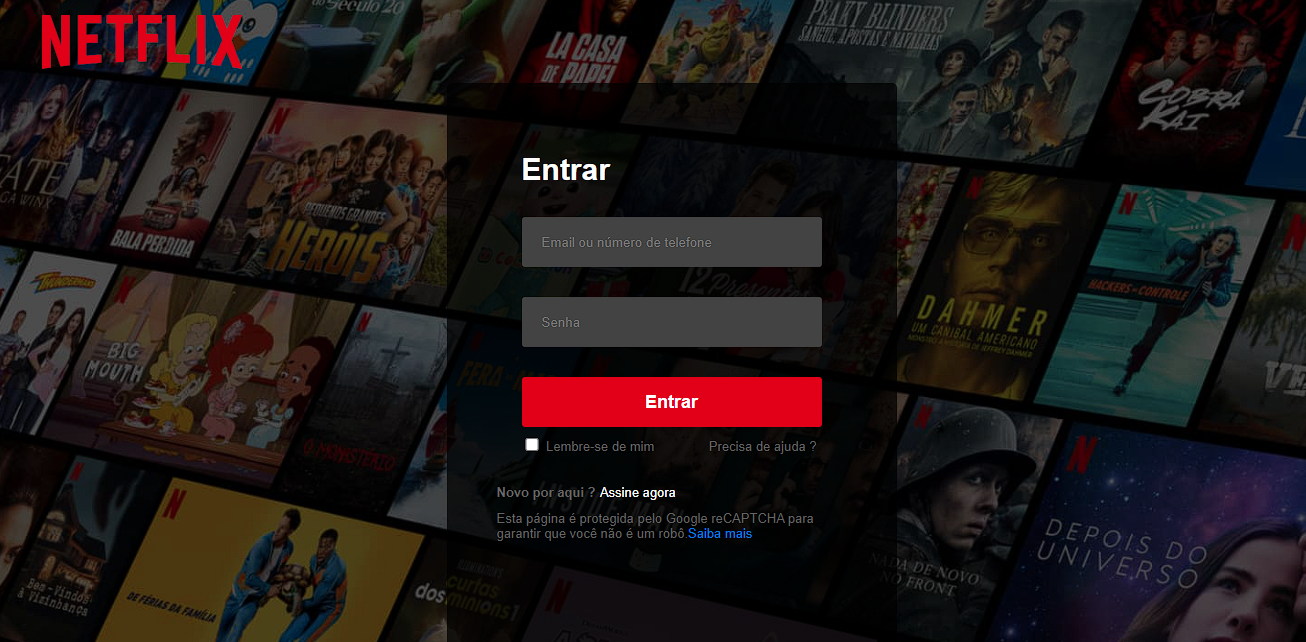
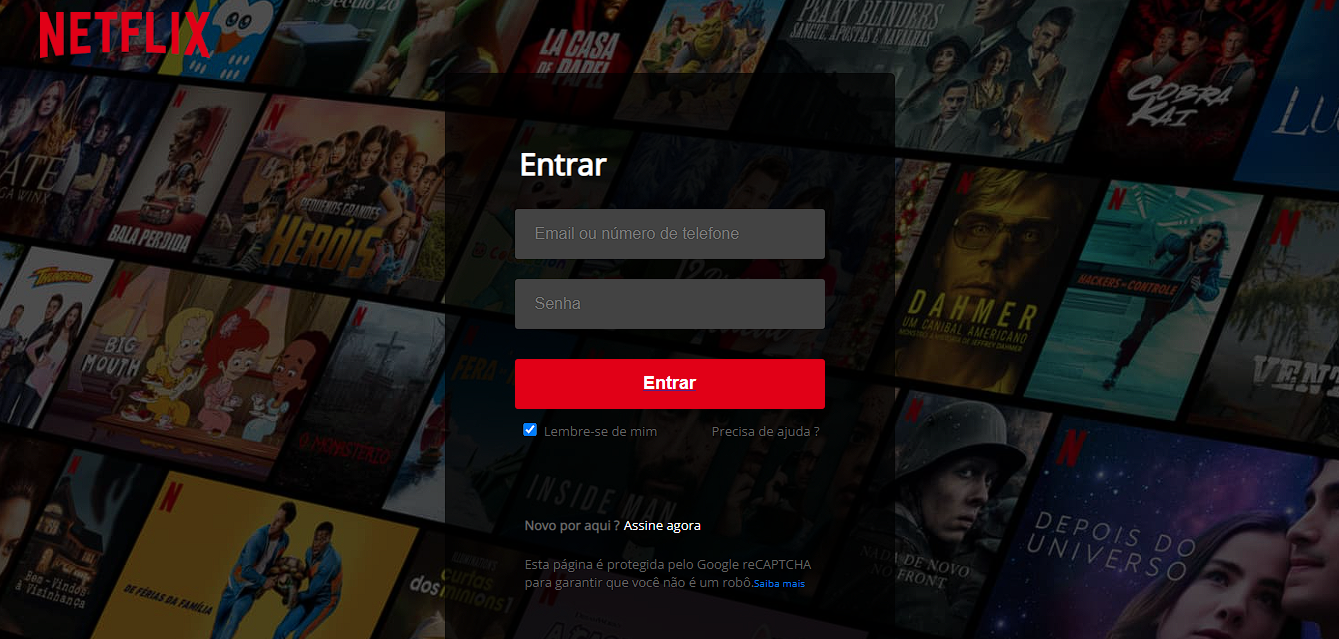
last

diff --git a/src/mobile.css b/src/mobile.css
@@ -1,0 +1,210 @@
+@import url("https://fonts.googleapis.com/css2?family=Open+Sans&display=swap");
+* {
+  padding: 0;
+  margin: 0;
+  box-sizing: border-box;
+}
+
+#cabecario {
+  width: 100%;
+}
+
+#cabecario #logo {
+  display: block;
+  width: 150px;
+  margin: 0 auto;
+}
+
+#blur {
+  background-color: rgba(0, 0, 0, 0.5);
+  padding-top: 2rem;
+}
+
+body {
+  background-image: url(../img/fundo_netflix.jpg);
+  background-repeat: no-repeat;
+  background-size: cover;
+  color: rgb(255, 255, 255);
+  font-family: "Open Sans", sans-serif;
+}
+
+:root {
+  --mainRed: #e50914;
+  --letter-Color: #737373;
+}
+
+main {
+  margin-bottom: 80px;
+  margin-top: 10px;
+}
+#conteudo {
+  background-color: rgba(0, 0, 0, 0.733);
+  width: 350px;
+  height: 600px;
+  margin: 0 auto;
+  border-radius: 5px;
+}
+
+#formulario fieldset {
+  border: 0px;
+  width: 350px;
+  height: 250px;
+}
+
+#formulario legend {
+  display: none;
+}
+
+#conteudo h1 {
+  display: block;
+  margin: 10px 20px;
+  font-size: 1.5em;
+}
+
+.input {
+  display: block;
+  margin: 0 auto;
+  width: 280px;
+  height: 50px;
+  margin-bottom: 20px;
+  background-color: rgb(67, 67, 67);
+  border: 0px;
+  padding: 20px;
+  border-radius: 3px;
+  font-size: 1em;
+}
+
+.bnt_entrar {
+  display: block;
+  margin: 0 auto;
+  width: 200px;
+  height: 50px;
+  margin-bottom: 10px;
+  margin-top: 30px;
+  background-color: var(--mainRed);
+  color: rgb(255, 255, 255);
+  border: 0px;
+  border-radius: 3px;
+  font-weight: bold;
+  font-size: large;
+}
+
+.lembrar_e_ajuda div {
+  display: inline;
+}
+
+.lembre_se_de_mim {
+  margin-left: 20px;
+  width: 20px;
+}
+
+.label_lembre-se {
+  color: rgb(100, 100, 100);
+}
+
+.link_precisa_de_ajuda {
+  text-decoration: none;
+  margin-left: 50px;
+  font-size: small;
+  color: rgb(100, 100, 100);
+}
+
+.label_lembre-se {
+  font-size: small;
+}
+
+.novo h2 {
+  display: block;
+  color: rgb(100, 100, 100);
+  font-size: small;
+  margin-left: 50px;
+}
+.assine_agora {
+  text-decoration: none;
+  color: white;
+  display: block;
+  font-size: small;
+  margin-left: 0px;
+}
+
+.new-here {
+  margin-left: 30px;
+  margin-top: 45px;
+}
+
+.new-here div {
+  display: inline-block;
+  margin-top: 30px;
+}
+
+.texto_protecao {
+  display: block;
+  font-size: small;
+  width: 200px;
+  margin-left: 50px;
+  color: rgb(100, 100, 100);
+  font-size: 0.8em;
+}
+
+.link_saibamais {
+  font-size: 0.8em;
+  text-decoration: none;
+  color: rgb(26, 120, 235);
+}
+
+.protected {
+  margin-left: 30px;
+}
+
+.protected p {
+  margin-top: 20px;
+  border-spacing: 0px;
+  display: inline-block;
+}
+
+#rodape {
+  background-color: rgba(0, 0, 0, 0.733);
+  height: 40vh;
+  padding: 2rem 2rem;
+  align-items: flex-start;
+  justify-content: left;
+  font-size: 0.9em;
+  color: #737373;
+}
+
+#contato {
+  margin-bottom: 1.5rem;
+  font-size: 1.1em;
+}
+
+#about {
+  display: flex;
+  flex-direction: row;
+  justify-content: space-between;
+}
+
+#about div {
+  display: flex;
+  flex-direction: column;
+}
+
+#about div span {
+  margin-bottom: 1rem;
+}
+
+#caixa_de_idiomas {
+  position: relative;
+}
+
+#caixa_de_idiomas select {
+  width: 150px;
+  height: 48px;
+  text-align: right;
+}
+
+#globe-icon {
+  width: 25px;
+  position: absolute;
+  top: 0.8em;
+  left: 1em;
+}

diff --git a/index.html b/index.html
@@ -33,7 +33,7 @@
             <fieldset>
               <legend class="entrar">Entrar</legend>
               <h1>Entrar</h1>
-              <div>
+              <div class="inputs-text">
                 <input
                   type="email"
                   type="number"
@@ -61,6 +61,7 @@
                     type="checkbox"
                     name="Lembre-se de mim"
                     class="lembre_se_de_mim"
+                    checked
                   />
                 </div>
                 <div>
@@ -71,7 +72,7 @@
                 <a href="#" class="link_precisa_de_ajuda">Precisa de ajuda ?</a>
               </div>
               <div class="novo">
-                <section class="baguidodemonio">
+                <section class="new-here">
                   <div>
                     <h2>Novo por aqui ?</h2>
                   </div>
@@ -79,7 +80,7 @@
                     <a href="#" class="assine_agora">Assine agora</a>
                   </div>
                 </section>
-                <section class="baguidodemonio2">
+                <section class="protected">
                   <div>
                     <p class="texto_protecao">
                       Esta página é protegida pelo Google reCAPTCHA para
@@ -99,18 +100,26 @@
 
       <footer id="rodape">
         <p id="contato">Dúvidas? Ligue 0800 591 8942</p>
-        <p>
-          <span>Perguntas frequentes</span>
-          <span> Central de Ajuda</span>
-          <span>Termos de Uso Privacidade</span>
-        </p>
-        <p>
-          <span>Preferências de cookies</span>
-          <span> Informações corporativas </span>
-        </p>
+        <div id="about">
+          <div>
+            <span>Perguntas frequentes</span>
+            <span>Preferências de cookies</span>
+          </div>
+          <div>
+            <span>Central de Ajuda</span>
+            <span> Informações corporativas </span>
+          </div>
+          <div>
+            <span>Termos de Uso</span>
+          </div>
+          <div>
+            <span>Privacidade</span>
+          </div>
+        </div>
         <div id="caixa_de_idiomas">
+          <img src="public/globe-icon.svg" alt="" id="globe-icon" />
           <select name="idiomas" id="idiomas">
-            <option value="POR">Português</option>
+            <option value="pt-BR">Português</option>
           </select>
         </div>
       </footer>

diff --git a/README.md b/README.md
@@ -2,6 +2,7 @@
 
 <h1 align="center">Netflix 🎥</h1>
 
+<img src="./img/README-page-mobile.png">
 <p align="center">
  <a href="#sobre">Sobre</a> •
  <a href="#tecnologias">Tecnologias</a> • 
